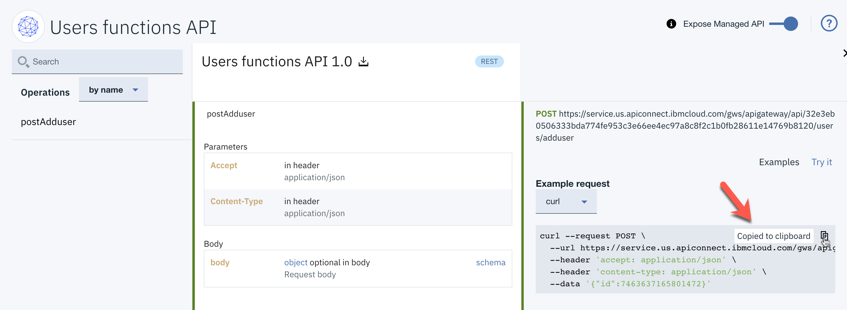
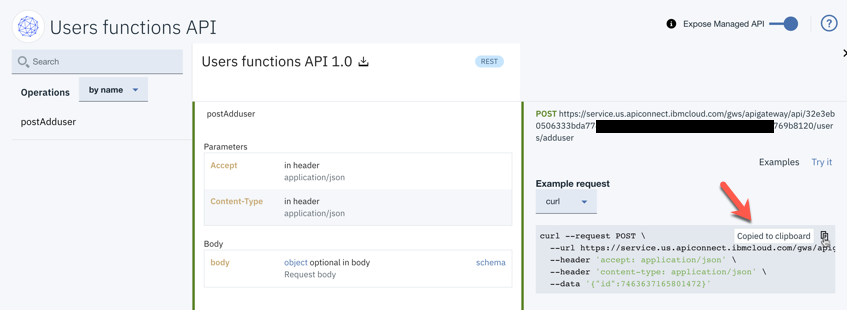
update scores and user functions readme

Changed region(s): [[0.706, 0.3774, 0.9209, 0.4355]]

diff --git a/scores/README.md b/scores/README.md
@@ -63,27 +63,37 @@ The setup is organized in separated chapters.
 Each chapter does setup a single part of the architecture. The setup is mostly automated with bash scripts. 
 To configure these bash scripts you need to insert values in the **scores.local.root.env** file. Just copy and paste the file  **scores.local.root.env-template** and rename the file to **scores.local.root.env**.
 
-_Note:_ The setup description is for IBM Cloud, but you can run the Node.js apps also locally.
-The **scores service** uses port 3000 and **webapp server** the port 3001.
+There are two major steps the **core scores services** and the **High Score Web App** setup.
 
-* Install
-```sh
-npm install
-```
-* Run locally
-```sh
-npm start
-> node server.js
-Listening on port (3001)
-```
+_Note:_ The setup description is for IBM Cloud, but you can run the Node.js apps also locally.
+The **scores service** uses port 3000 and **webapp server** the port 3000.
+
+Sample for the **scores service**.
+
+ * Install
+ ```sh
+ npm install
+ bower install
+ ```
+ * Run locally
+ ```sh
+ npm start
+ > node server.js
+ Listening on port (3000)
+ ```
+
+* Browser URL: localhost:3000
+
 
 ## 1. Core scores services setup
 
-* [Service](./service) 
+These are the three steps to setup the core scores services.
+
+1. [Service](./service) 
 You must setup the **Scores Service**, the result is needed in the **service api**. 
-* [Service API](./service-api) 
+2. [Service API](./service-api) 
 The **Service API** can be **optional**, if you decide not to use the API Connect instance on IBM Cloud as input for the **Functions API**.
-* [Functions API](./functions-api)
+3. [Functions API](./functions-api)
 The **Functions API** is a must for the setup, because this API is used in the **High Scores Web App**.
 
 ## 2. High Score Web App setup

diff --git a/users/functions-api/README.md b/users/functions-api/README.md
@@ -160,12 +160,12 @@ The reason is that the uploaded API imformation does contain older auth informat
 ![scores-functions-navigation-11](docimages/users-functions-navigation-11.png)
 
 ```sh
-curl --request POST \ --url https://service.us.apiconnect.ibmcloud.com/gws/apigateway/api/32e3eb0506333bda774fe953c3e66ee4ec97a8c8f2c1b0fb28611e14769b8120/users/adduser \ --header 'accept: application/json' \ --header 'content-type: application/json' \ --data '{"id":4672220810969088}'
+curl --request POST \ --url https://service.us.apiconnect.ibmcloud.com/gws/apigateway/api/32e3eb9b8120/users/adduser \ --header 'accept: application/json' \ --header 'content-type: application/json' \ --data '{"id":4672220810969088}'
 ```
 
 3. Insert the api call in the Game App configuration file [YOUR-ROOT]/bluecloudmirror/**local.env** and save the file.
 
-Example API call for addscore: **https://service.us.apiconnect.ibmcloud.com/gws/apigateway/api/32e3eb0506333bda774fe953c3e66ee4ec97a8c8f2c1b0fb28611e14769b8120/users/adduser**
+Example API call for addscore: **https://service.us.apiconnect.ibmcloud.com/gws/apigateway/api/32e3eb69b8120/users/adduser**
 
 * API_USERS=users-url-not-defined
 
